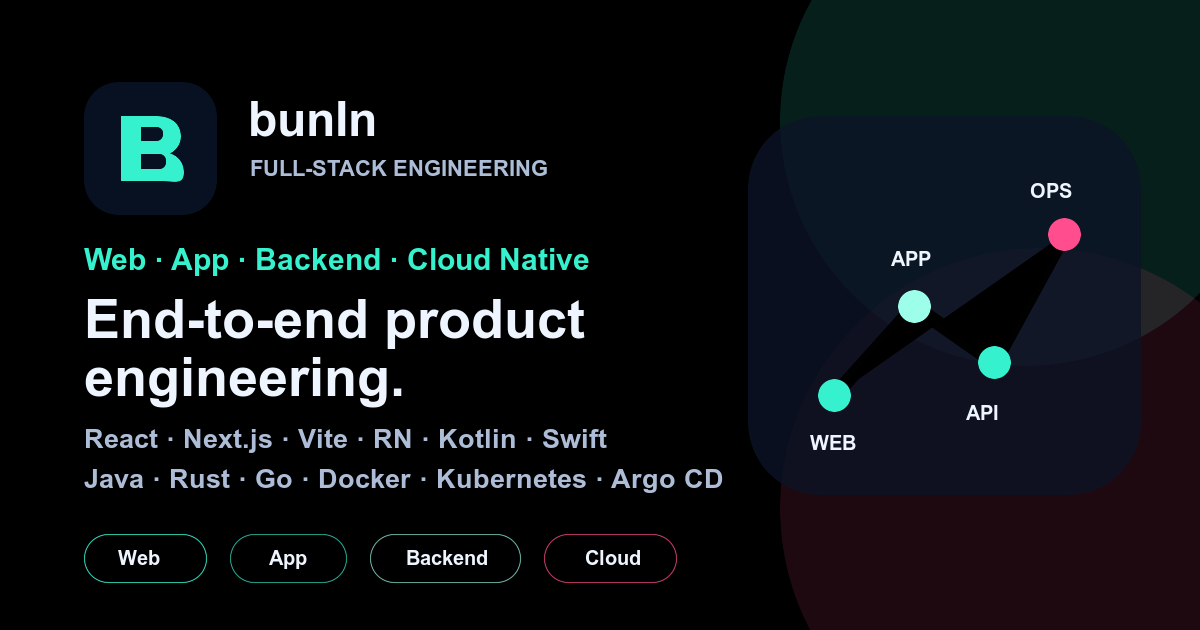
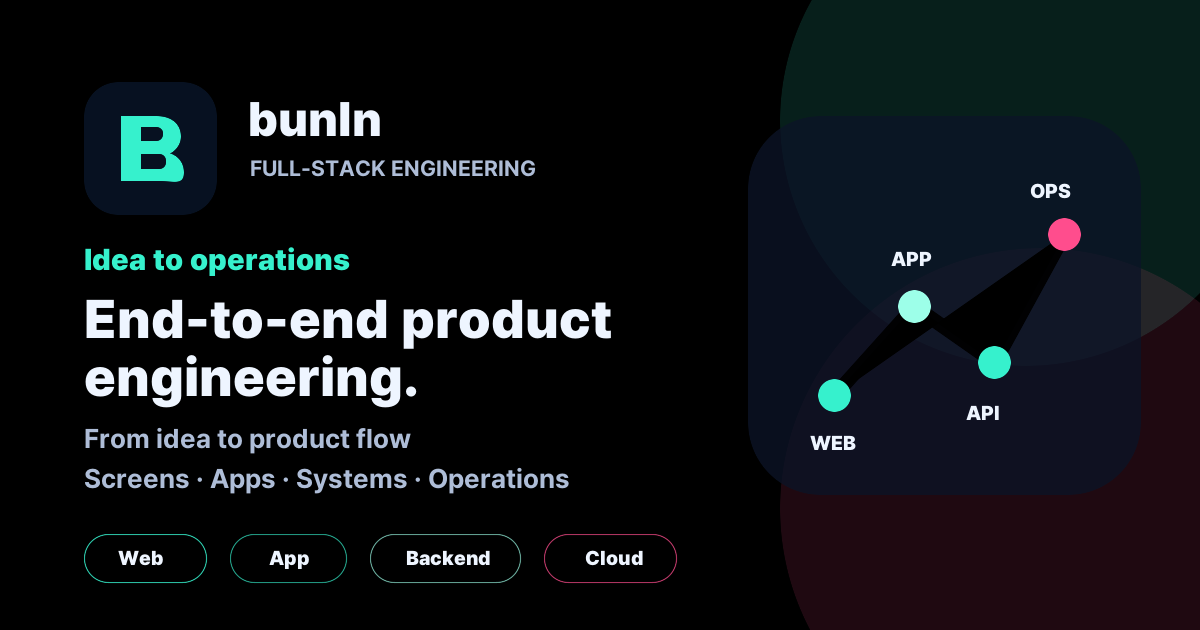
Update typography system with Pretendard font, enhance 3D model effects and animations. Refine content for clarity and user focus. Integrate global font and metadata improvements.

diff --git a/pages/+Page.tsx b/pages/+Page.tsx
@@ -1,3 +1,4 @@
+import { useCallback, useRef, useState, type CSSProperties, type KeyboardEvent, type PointerEvent } from 'react';
 import { cx } from '../styled-system/css';
 import { pageStyles as s } from '../src/styles';
 
@@ -10,20 +11,83 @@ const principles = [
 
 const modelNodes = ['App Shell', 'Feature A', 'Feature B', 'OTA Gate'] as const;
 
+type ModelRotation = {
+  x: number;
+  y: number;
+};
+
+const defaultModelRotation = { x: -18, y: 34 } satisfies ModelRotation;
+
+const clamp = (value: number, min: number, max: number) => Math.min(max, Math.max(min, value));
+
 const seoServices = [
-  ['웹앱·프론트엔드', 'React, Next.js, Vite로 고객용 웹앱, 랜딩, 대시보드, 관리자 페이지를 만듭니다.'],
-  ['앱·네이티브', 'React Native, Kotlin, Swift로 모바일 앱과 네이티브 연동이 필요한 제품을 설계합니다.'],
-  ['백엔드·시스템', 'Java, Go, Rust 기반 API, 데이터 처리, 인증, 권한, 파일·문서 처리 흐름을 연결합니다.'],
-  ['클라우드 네이티브 운영', 'Docker, Kubernetes, Argo CD로 배포 자동화, 운영 안정성, 확장 가능한 인프라를 잡습니다.'],
+  ['고객이 만나는 화면', '랜딩, 웹앱, 대시보드, 관리자 페이지를 빠르게 이해되고 오래 쓰이는 흐름으로 만듭니다.'],
+  ['손안에서 돌아가는 앱', '모바일 앱과 네이티브 기능 연동까지 제품의 속도와 사용감을 해치지 않게 설계합니다.'],
+  ['일이 줄어드는 시스템', '인증, 권한, 데이터 처리, 파일·문서 흐름처럼 반복 업무를 줄이는 백엔드를 연결합니다.'],
+  ['안심하고 올리는 운영', '배포 자동화, 로그, 롤백, 장애 대응까지 제품 출시 이후의 운영을 처음부터 포함합니다.'],
 ] as const;
 
 const faqs = [
-  ['bunIn은 어떤 기업인가요?', 'bunIn(번인)은 React, Next.js, Vite, React Native, Kotlin, Swift, Java, Rust, Go, Docker, Kubernetes, Argo CD까지 다루는 풀스택·앱·클라우드 네이티브 개발 기업입니다.'],
-  ['bunIn은 어떤 일을 잘하나요?', '고객용 웹앱, 내부 관리자 페이지, 모바일 앱, 백엔드 API, 업무 자동화, Docker/Kubernetes 기반 인프라, Argo CD 배포 자동화까지 제품과 운영을 함께 설계합니다.'],
+  ['bunIn은 어떤 기업인가요?', 'bunIn(번인)은 아이디어를 화면, 앱, 백엔드, 배포 운영까지 이어 실제로 돌아가는 제품으로 만드는 풀스택 개발 기업입니다.'],
+  ['bunIn은 어떤 일을 잘하나요?', '고객용 화면, 내부 운영 도구, 모바일 앱, 데이터 흐름, 업무 자동화, 배포 운영까지 제품이 실제로 쓰이는 전 과정을 함께 설계합니다.'],
   ['bunIn이 중요하게 보는 가치는 무엇인가요?', '멋있어 보이는 데모보다 실제 사람이 쓰기 쉬운 화면, 안정적인 데이터 처리, 운영 로그, 자동화, 유지보수 가능한 코드를 중요하게 봅니다.'],
 ] as const;
 
 export default function Page() {
+  const [modelRotation, setModelRotation] = useState<ModelRotation>(defaultModelRotation);
+  const dragStartRef = useRef<{ x: number; y: number; rotation: ModelRotation } | null>(null);
+
+  const modelStyle = {
+    '--model-rx': `${modelRotation.x}deg`,
+    '--model-ry': `${modelRotation.y}deg`,
+  } as CSSProperties;
+
+  const handleModelPointerDown = useCallback((event: PointerEvent<HTMLDivElement>) => {
+    dragStartRef.current = {
+      x: event.clientX,
+      y: event.clientY,
+      rotation: modelRotation,
+    };
+    event.currentTarget.setPointerCapture(event.pointerId);
+  }, [modelRotation]);
+
+  const handleModelPointerMove = useCallback((event: PointerEvent<HTMLDivElement>) => {
+    const dragStart = dragStartRef.current;
+    if (!dragStart) return;
+
+    const nextX = clamp(dragStart.rotation.x - (event.clientY - dragStart.y) * 0.18, -42, 34);
+    const nextY = dragStart.rotation.y + (event.clientX - dragStart.x) * 0.22;
+
+    setModelRotation({ x: nextX, y: nextY });
+  }, []);
+
+  const handleModelPointerUp = useCallback((event: PointerEvent<HTMLDivElement>) => {
+    dragStartRef.current = null;
+    if (event.currentTarget.hasPointerCapture(event.pointerId)) {
+      event.currentTarget.releasePointerCapture(event.pointerId);
+    }
+  }, []);
+
+  const handleModelKeyDown = useCallback((event: KeyboardEvent<HTMLDivElement>) => {
+    const step = event.shiftKey ? 12 : 7;
+
+    if (event.key === 'Home') {
+      event.preventDefault();
+      setModelRotation(defaultModelRotation);
+      return;
+    }
+
+    if (!['ArrowUp', 'ArrowDown', 'ArrowLeft', 'ArrowRight'].includes(event.key)) return;
+
+    event.preventDefault();
+    setModelRotation((current) => {
+      if (event.key === 'ArrowUp') return { ...current, x: clamp(current.x - step, -42, 34) };
+      if (event.key === 'ArrowDown') return { ...current, x: clamp(current.x + step, -42, 34) };
+      if (event.key === 'ArrowLeft') return { ...current, y: current.y - step };
+      return { ...current, y: current.y + step };
+    });
+  }, []);
+
   return (
     <main id="top" className={s.main}>
       <section className={cx(s.hero, s.sectionGrid)}>
@@ -35,9 +99,9 @@ export default function Page() {
             풀스택 기업.
           </h1>
           <p className={s.heroText}>
-            bunIn(번인)은 React, Next.js, Vite, React Native부터 Kotlin, Swift, Java, Rust, Go,
-            Docker, Kubernetes, Argo CD까지 제품과 운영을 한 번에 설계하는 IT 기업입니다.
-            일반 사용자가 이해하기 쉬운 화면과 실제 업무가 줄어드는 시스템을 우선합니다.
+            bunIn(번인)은 화면, 앱, 백엔드, 배포 운영을 따로 떼어 보지 않습니다.
+            사용자는 더 쉽게 쓰고, 팀은 더 적게 반복하고, 제품은 더 안전하게 커지도록
+            처음부터 끝까지 하나의 흐름으로 설계합니다.
           </p>
           <div className={s.actionRow}>
             <a className={s.buttonPrimary} href="#project">무엇을 만드는지 보기</a>
@@ -53,23 +117,46 @@ export default function Page() {
         </div>
 
         <aside className={s.heroVisual} aria-label="React Native Micro Frontend 런타임 3D 모델">
-          <div className={s.modelStage} role="img" aria-label="앱 셸과 기능 모듈, OTA 검증 게이트가 연결된 3D 런타임 모델">
+          <div
+            className={s.modelStage}
+            role="img"
+            aria-label="드래그하거나 방향키로 회전할 수 있는 앱 런타임 3D 모델"
+            tabIndex={0}
+            style={modelStyle}
+            onPointerDown={handleModelPointerDown}
+            onPointerMove={handleModelPointerMove}
+            onPointerUp={handleModelPointerUp}
+            onPointerCancel={handleModelPointerUp}
+            onKeyDown={handleModelKeyDown}
+            onDoubleClick={() => setModelRotation(defaultModelRotation)}
+          >
             <div className={s.modelGrid} aria-hidden="true" />
-            <div className={s.orbitOne} aria-hidden="true" />
-            <div className={s.orbitTwo} aria-hidden="true" />
-            <div className={s.coreCube} aria-hidden="true">
-              <span className={cx(s.cubeFace, s.faceFront)}>bunIn</span>
-              <span className={cx(s.cubeFace, s.faceBack)}>SAFE</span>
-              <span className={cx(s.cubeFace, s.faceRight)}>OTA</span>
-              <span className={cx(s.cubeFace, s.faceLeft)}>MFE</span>
-              <span className={cx(s.cubeFace, s.faceTop)}>RUN</span>
-              <span className={cx(s.cubeFace, s.faceBottom)}>OPS</span>
+            <div className={s.modelGlow} aria-hidden="true" />
+            <div className={s.modelRig} aria-hidden="true">
+              <div className={s.modelPlate} />
+              <div className={s.modelBeams}>
+                <span />
+                <span />
+                <span />
+              </div>
+              <div className={s.orbitOne} />
+              <div className={s.orbitTwo} />
+              <div className={s.orbitThree} />
+              <div className={s.coreCube}>
+                <span className={cx(s.cubeFace, s.faceFront)}>bunIn</span>
+                <span className={cx(s.cubeFace, s.faceBack)}>SAFE</span>
+                <span className={cx(s.cubeFace, s.faceRight)}>OTA</span>
+                <span className={cx(s.cubeFace, s.faceLeft)}>MFE</span>
+                <span className={cx(s.cubeFace, s.faceTop)}>RUN</span>
+                <span className={cx(s.cubeFace, s.faceBottom)}>OPS</span>
+              </div>
             </div>
             <div className={s.modelNodes} aria-hidden="true">
               {modelNodes.map((node) => (
                 <span key={node}>{node}</span>
               ))}
             </div>
+            <span className={s.modelHint} aria-hidden="true">drag · arrows · double click reset</span>
           </div>
           <div className={s.terminal} aria-label="bunIn 기술 원칙">
             <div className={s.terminalBar}><span /><span /><span /></div>
@@ -84,16 +171,16 @@ status: obsessed_with_it`}</code></pre>
       </section>
 
       <section className={s.metrics} aria-label="핵심 역량">
-        <article><strong>Web</strong><span>React · Next.js · Vite</span></article>
-        <article><strong>App</strong><span>React Native · Kotlin · Swift</span></article>
-        <article><strong>Backend</strong><span>Java · Go · Rust · API</span></article>
-        <article><strong>Cloud</strong><span>Docker · Kubernetes · Argo CD</span></article>
+        <article><strong>Launch</strong><span>아이디어를 바로 만져지는 제품으로</span></article>
+        <article><strong>Flow</strong><span>화면, 앱, 데이터가 끊기지 않게</span></article>
+        <article><strong>Ops</strong><span>배포와 장애 대응이 무섭지 않게</span></article>
+        <article><strong>Scale</strong><span>작게 시작해도 커질 수 있게</span></article>
       </section>
 
       <section id="project" className={s.section}>
         <div className={s.sectionHeading}>
           <p className={s.eyebrow}>What We Build</p>
-          <h2 className={s.h2}>bunIn은 풀스택 제품과 앱, 클라우드 운영 시스템을 함께 만듭니다.</h2>
+          <h2 className={s.h2}>bunIn은 제품이 처음 쓰이는 순간부터 운영되는 날까지 함께 만듭니다.</h2>
           <p>
             프론트엔드와 앱에서 끝나지 않고 백엔드, 인프라, 배포 자동화,
             운영 안정성까지 비즈니스에 필요한 소프트웨어를 풀스택으로 연결합니다.
@@ -104,17 +191,18 @@ status: obsessed_with_it`}</code></pre>
           <article className={s.projectCard}>
             <div className={s.cardTop}>
               <span className={s.tag}>Full Stack</span>
-              <span className={s.status}>Web · App · Cloud</span>
+              <span className={s.status}>Idea → Ops</span>
             </div>
-            <h3 className={s.h3}>웹앱, 모바일 앱, 백엔드, 클라우드 운영</h3>
+            <h3 className={s.h3}>아이디어가 실제 업무 흐름이 되기까지</h3>
             <p>
               bunIn은 고객이 보는 웹 화면, 모바일 앱, 직원이 쓰는 관리자 페이지, 데이터를 처리하는 백엔드,
-              Docker/Kubernetes 기반 인프라, Argo CD 배포 자동화까지 하나의 제품 흐름으로 만듭니다.
-              필요한 기술이 React든 Go든 Rust든 Kotlin이든 제품에 맞는 선택으로 끝까지 구현합니다.
+              배포와 운영 자동화까지 하나의 제품 흐름으로 만듭니다.
+              기술 이름보다 중요한 것은 사용자가 막히지 않고, 팀의 반복 업무가 줄고,
+              출시 이후에도 안전하게 고칠 수 있는 구조입니다.
             </p>
             <div className={s.projectActions}>
               <a href="#seo-profile">서비스 영역</a>
-              <a href="https://github.com/burned-in/react-native-micro-frontend" target="_blank" rel="noreferrer">기술 자산</a>
+              <a href="https://github.com/burned-in/react-native-micro-frontend" target="_blank" rel="noreferrer">오픈소스 런타임 보기</a>
             </div>
           </article>
         </div>
@@ -138,10 +226,10 @@ status: obsessed_with_it`}</code></pre>
       <section id="seo-profile" className={s.section} aria-labelledby="seo-profile-title">
         <div className={s.sectionHeading}>
           <p className={s.eyebrow}>Company Profile</p>
-          <h2 id="seo-profile-title" className={s.h2}>bunIn은 웹앱, 앱, 백엔드, 클라우드 운영까지 만드는 풀스택 기업입니다.</h2>
+          <h2 id="seo-profile-title" className={s.h2}>bunIn은 만들고 끝내지 않고, 운영되는 제품을 설계하는 풀스택 기업입니다.</h2>
           <p>
             검색엔진과 고객이 같은 답을 얻도록 bunIn이 만드는 것, 해결하는 문제,
-            기술 범위와 기업 식별 정보를 명확한 문장과 구조로 공개합니다.
+            일하는 방식과 기업 식별 정보를 명확한 문장과 구조로 공개합니다.
           </p>
         </div>
         <div className={s.seoGrid}>
@@ -167,7 +255,7 @@ status: obsessed_with_it`}</code></pre>
           </div>
           <div>
             <dt>핵심 키워드</dt>
-            <dd>React, Next.js, Vite, React Native, Kotlin, Swift, Java, Rust, Go, Docker, Kubernetes, Argo CD</dd>
+            <dd>제품 설계, 앱 경험, 백엔드 흐름, 업무 자동화, 배포 운영</dd>
           </div>
         </dl>
       </section>

diff --git a/src/styles.ts b/src/styles.ts
@@ -145,9 +145,9 @@ export const pageStyles = {
   }),
   hero: css({ minHeight: '78vh', padding: 'clamp(4rem, 8vw, 6.5rem) 0 3rem', '@media (max-width: 980px)': { minHeight: 'auto' }, '@media (max-width: 720px)': { paddingTop: '3rem' } }),
   eyebrow: css({ margin: '0 0 1rem', color: 'var(--brand)', fontSize: '.78rem', fontWeight: '850', lineHeight: '1.6', letterSpacing: '.16em', textTransform: 'uppercase' }),
-  h1: css({ marginBottom: '1.35rem', maxWidth: '10ch', fontSize: 'clamp(3rem, 8vw, 7rem)', lineHeight: '1.08', letterSpacing: '-.075em', '& span': { display: 'block', color: 'transparent', background: 'linear-gradient(90deg, var(--brand), var(--brand-strong), var(--hot))', backgroundClip: 'text' }, '@media (max-width: 980px)': { maxWidth: '12ch' }, '@media (max-width: 720px)': { fontSize: 'clamp(2.7rem, 15vw, 4.6rem)', lineHeight: '1.1', letterSpacing: '-.065em' } }),
-  h2: css({ fontSize: 'clamp(2rem, 5vw, 4.2rem)', lineHeight: '1.18', letterSpacing: '-.055em', '@media (max-width: 720px)': { lineHeight: '1.2', letterSpacing: '-.045em' } }),
-  h3: css({ fontSize: 'clamp(1.25rem, 2vw, 1.5rem)', lineHeight: '1.35', letterSpacing: '-.025em' }),
+  h1: css({ marginBottom: '1.35rem', maxWidth: '10ch', fontSize: 'clamp(3rem, 8vw, 7rem)', fontWeight: '600', fontVariationSettings: '"wght" 600', lineHeight: '1.04', letterSpacing: '-.075em', textShadow: '0 10px 36px rgba(0,0,0,.28)', '& span': { display: 'block', color: 'transparent', background: 'linear-gradient(90deg, var(--brand), var(--brand-strong), var(--hot))', backgroundClip: 'text' }, '@media (max-width: 980px)': { maxWidth: '12ch' }, '@media (max-width: 720px)': { fontSize: 'clamp(2.7rem, 15vw, 4.6rem)', lineHeight: '1.06', letterSpacing: '-.065em' } }),
+  h2: css({ fontSize: 'clamp(2rem, 5vw, 4.2rem)', fontWeight: '600', fontVariationSettings: '"wght" 600', lineHeight: '1.12', letterSpacing: '-.055em', textShadow: '0 8px 28px rgba(0,0,0,.2)', '@media (max-width: 720px)': { lineHeight: '1.15', letterSpacing: '-.045em' } }),
+  h3: css({ fontSize: 'clamp(1.25rem, 2vw, 1.5rem)', fontWeight: '600', lineHeight: '1.28', letterSpacing: '-.025em' }),
   bodyText: css({ ...mutedText }),
   heroText: css({ ...mutedText, maxWidth: '44rem', fontSize: 'clamp(1rem, 1.8vw, 1.12rem)' }),
   actionRow: css({ display: 'flex', flexWrap: 'wrap', gap: '.9rem', marginTop: '2rem', '@media (max-width: 430px)': { gap: '.7rem' } }),
@@ -166,14 +166,25 @@ export const pageStyles = {
     boxShadow: 'var(--shadow), inset 0 1px rgba(255,255,255,.08)',
     perspective: '900px',
     isolation: 'isolate',
+    cursor: 'grab',
+    touchAction: 'none',
+    userSelect: 'none',
+    outline: 'none',
+    _active: { cursor: 'grabbing' },
+    _focusVisible: { borderColor: 'color-mix(in srgb, var(--brand) 62%, var(--line))', boxShadow: 'var(--shadow), inset 0 1px rgba(255,255,255,.08), 0 0 0 4px color-mix(in srgb, var(--brand) 16%, transparent)' },
     '@media (max-width: 720px)': { minHeight: '24rem' },
     '@media (max-width: 430px)': { minHeight: '21rem' },
   }),
-  modelGrid: css({ position: 'absolute', inset: '14% -10% -22%', transform: 'rotateX(68deg) rotateZ(-16deg)', transformOrigin: 'center', backgroundImage: 'linear-gradient(color-mix(in srgb, var(--brand) 25%, transparent) 1px, transparent 1px), linear-gradient(90deg, color-mix(in srgb, var(--brand) 25%, transparent) 1px, transparent 1px)', backgroundSize: '2.6rem 2.6rem', opacity: '.38', maskImage: 'linear-gradient(to top, transparent, #000 22%, #000 72%, transparent)' }),
-  orbitOne: css({ position: 'absolute', width: 'min(72%, 21rem)', aspectRatio: '1', border: '1px solid color-mix(in srgb, var(--brand) 48%, transparent)', borderRadius: '50%', transformStyle: 'preserve-3d', animation: 'orbit-spin 12s linear infinite', transform: 'rotateX(68deg) rotateZ(18deg)' }),
-  orbitTwo: css({ position: 'absolute', width: 'min(58%, 17rem)', aspectRatio: '1', border: '1px solid color-mix(in srgb, var(--hot) 44%, transparent)', borderRadius: '50%', transformStyle: 'preserve-3d', animation: 'orbit-spin 15s linear infinite reverse', transform: 'rotateX(64deg) rotateZ(-30deg)' }),
+  modelGrid: css({ position: 'absolute', inset: '11% -10% -20%', transform: 'rotateX(68deg) rotateZ(-16deg)', transformOrigin: 'center', backgroundImage: 'linear-gradient(color-mix(in srgb, var(--brand) 25%, transparent) 1px, transparent 1px), linear-gradient(90deg, color-mix(in srgb, var(--brand) 25%, transparent) 1px, transparent 1px)', backgroundSize: '2.6rem 2.6rem', opacity: '.34', maskImage: 'linear-gradient(to top, transparent, #000 22%, #000 72%, transparent)' }),
+  modelGlow: css({ position: 'absolute', width: 'min(76%, 25rem)', aspectRatio: '1', borderRadius: '999px', background: 'radial-gradient(circle, color-mix(in srgb, var(--brand) 22%, transparent), color-mix(in srgb, var(--hot) 12%, transparent) 38%, transparent 68%)', filter: 'blur(18px)', opacity: '.82' }),
+  modelRig: css({ position: 'relative', zIndex: '2', display: 'grid', placeItems: 'center', width: 'min(70%, 23rem)', aspectRatio: '1', transformStyle: 'preserve-3d', transform: 'rotateX(var(--model-rx, -18deg)) rotateY(var(--model-ry, 34deg))', transition: 'transform .08s linear', willChange: 'transform' }),
+  modelPlate: css({ position: 'absolute', width: '82%', aspectRatio: '1', border: '1px solid color-mix(in srgb, var(--brand) 40%, transparent)', borderRadius: '999px', background: 'radial-gradient(circle, color-mix(in srgb, var(--brand) 12%, transparent), transparent 55%), conic-gradient(from 120deg, transparent, color-mix(in srgb, var(--brand) 35%, transparent), transparent, color-mix(in srgb, var(--hot) 25%, transparent), transparent)', boxShadow: '0 0 42px color-mix(in srgb, var(--brand) 18%, transparent)', transform: 'rotateX(72deg) translateZ(-4.2rem)' }),
+  modelBeams: css({ position: 'absolute', inset: '13%', transformStyle: 'preserve-3d', '& span': { position: 'absolute', left: '50%', top: '50%', width: '74%', height: '1px', transformOrigin: '0 0', background: 'linear-gradient(90deg, transparent, color-mix(in srgb, var(--brand) 78%, transparent), transparent)', boxShadow: '0 0 16px color-mix(in srgb, var(--brand) 42%, transparent)' }, '& span:nth-child(1)': { transform: 'rotateZ(22deg) translateX(-50%) translateZ(2.7rem)' }, '& span:nth-child(2)': { transform: 'rotateZ(142deg) translateX(-50%) translateZ(1.6rem)' }, '& span:nth-child(3)': { transform: 'rotateZ(262deg) translateX(-50%) translateZ(2.1rem)' } }),
+  orbitOne: css({ position: 'absolute', top: '50%', left: '50%', width: '94%', aspectRatio: '1', border: '1px solid color-mix(in srgb, var(--brand) 52%, transparent)', borderRadius: '50%', transformStyle: 'preserve-3d', animation: 'orbit-spin 12s linear infinite', transform: 'translate(-50%, -50%) rotateX(68deg) rotateZ(18deg)', boxShadow: '0 0 26px color-mix(in srgb, var(--brand) 12%, transparent)' }),
+  orbitTwo: css({ position: 'absolute', top: '50%', left: '50%', width: '73%', aspectRatio: '1', border: '1px solid color-mix(in srgb, var(--hot) 46%, transparent)', borderRadius: '50%', transformStyle: 'preserve-3d', animation: 'orbit-spin 15s linear infinite reverse', transform: 'translate(-50%, -50%) rotateX(64deg) rotateZ(-30deg)', boxShadow: '0 0 24px color-mix(in srgb, var(--hot) 13%, transparent)' }),
+  orbitThree: css({ position: 'absolute', top: '50%', left: '50%', width: '55%', aspectRatio: '1', border: '1px dashed color-mix(in srgb, var(--brand-strong) 50%, transparent)', borderRadius: '50%', transformStyle: 'preserve-3d', animation: 'orbit-spin 18s linear infinite', transform: 'translate(-50%, -50%) rotateX(74deg) rotateZ(86deg)', opacity: '.78' }),
   coreCube: css({ position: 'relative', width: 'clamp(6.8rem, 16vw, 9.4rem)', height: 'clamp(6.8rem, 16vw, 9.4rem)', transformStyle: 'preserve-3d', transform: 'rotateX(-18deg) rotateY(34deg)', animation: 'cube-float 7s ease-in-out infinite', zIndex: '2' }),
-  cubeFace: css({ position: 'absolute', inset: '0', display: 'grid', placeItems: 'center', border: '1px solid color-mix(in srgb, var(--brand) 56%, transparent)', background: 'linear-gradient(135deg, color-mix(in srgb, var(--brand) 24%, transparent), color-mix(in srgb, var(--hot) 14%, transparent)), var(--panel-strong)', color: 'var(--text)', fontSize: 'clamp(.78rem, 2vw, 1rem)', fontWeight: '950', letterSpacing: '.12em', boxShadow: 'inset 0 1px rgba(255,255,255,.16), 0 0 30px color-mix(in srgb, var(--brand) 18%, transparent)', backfaceVisibility: 'hidden' }),
+  cubeFace: css({ position: 'absolute', inset: '0', display: 'grid', placeItems: 'center', border: '1px solid color-mix(in srgb, var(--brand) 62%, transparent)', background: 'linear-gradient(135deg, color-mix(in srgb, var(--brand) 28%, transparent), color-mix(in srgb, var(--hot) 16%, transparent)), color-mix(in srgb, var(--panel-strong) 92%, transparent)', color: 'var(--text)', fontSize: 'clamp(.78rem, 2vw, 1rem)', fontWeight: '950', letterSpacing: '.12em', boxShadow: 'inset 0 1px rgba(255,255,255,.2), inset 0 -22px 44px color-mix(in srgb, var(--brand) 8%, transparent), 0 0 34px color-mix(in srgb, var(--brand) 22%, transparent)', backdropFilter: 'blur(12px)', backfaceVisibility: 'hidden' }),
   faceFront: css({ transform: 'translateZ(calc(clamp(6.8rem, 16vw, 9.4rem) / 2))' }),
   faceBack: css({ transform: 'rotateY(180deg) translateZ(calc(clamp(6.8rem, 16vw, 9.4rem) / 2))' }),
   faceRight: css({ transform: 'rotateY(90deg) translateZ(calc(clamp(6.8rem, 16vw, 9.4rem) / 2))' }),
@@ -181,7 +192,8 @@ export const pageStyles = {
   faceTop: css({ transform: 'rotateX(90deg) translateZ(calc(clamp(6.8rem, 16vw, 9.4rem) / 2))' }),
   faceBottom: css({ transform: 'rotateX(-90deg) translateZ(calc(clamp(6.8rem, 16vw, 9.4rem) / 2))' }),
   modelNodes: css({ position: 'absolute', inset: '1.2rem', zIndex: '3', pointerEvents: 'none', '& span': { position: 'absolute', display: 'inline-flex', alignItems: 'center', minHeight: '2.25rem', padding: '.55rem .75rem', border: '1px solid var(--line)', borderRadius: '999px', color: 'var(--text)', background: 'color-mix(in srgb, var(--panel-strong) 84%, transparent)', boxShadow: 'var(--soft-shadow)', fontSize: 'clamp(.72rem, 1.8vw, .86rem)', fontWeight: '850', lineHeight: '1.25' }, '& span:nth-child(1)': { top: '7%', left: '7%' }, '& span:nth-child(2)': { top: '18%', right: '5%' }, '& span:nth-child(3)': { bottom: '17%', left: '4%' }, '& span:nth-child(4)': { right: '7%', bottom: '8%', color: 'var(--brand)' }, '@media (max-width: 430px)': { inset: '.75rem', '& span': { padding: '.48rem .62rem' } } }),
-  terminal: css({ border: '1px solid var(--line)', borderRadius: '1.6rem', background: 'linear-gradient(180deg, color-mix(in srgb, var(--panel-strong) 95%, #000 5%), color-mix(in srgb, var(--panel) 88%, #000 12%))', boxShadow: 'var(--shadow), inset 0 1px rgba(255,255,255,.08)', overflow: 'hidden', position: 'relative', zIndex: '4', width: 'min(92%, 28rem)', margin: '-5.5rem auto 0', transform: 'rotate(1deg)', '& pre': { margin: '0', padding: '1.2rem', overflowX: 'auto' }, '& code': { color: 'color-mix(in srgb, var(--brand-strong) 78%, var(--text))', fontFamily: '"SFMono-Regular", Consolas, ui-monospace, monospace', lineHeight: '1.7' }, '@media (max-width: 720px)': { width: '100%', marginTop: '-3rem', transform: 'none', '& pre': { padding: '1rem', fontSize: '.78rem' } } }),
+  modelHint: css({ position: 'absolute', left: '50%', bottom: '1rem', zIndex: '4', transform: 'translateX(-50%)', padding: '.45rem .7rem', border: '1px solid color-mix(in srgb, var(--brand) 36%, var(--line))', borderRadius: '999px', color: 'var(--muted)', background: 'color-mix(in srgb, var(--panel-strong) 72%, transparent)', fontSize: '.72rem', fontWeight: '750', letterSpacing: '.08em', textTransform: 'uppercase', pointerEvents: 'none', whiteSpace: 'nowrap', '@media (max-width: 430px)': { display: 'none' } }),
+  terminal: css({ border: '1px solid var(--line)', borderRadius: '1.6rem', background: 'linear-gradient(180deg, color-mix(in srgb, var(--panel-strong) 95%, #000 5%), color-mix(in srgb, var(--panel) 88%, #000 12%))', boxShadow: 'var(--shadow), inset 0 1px rgba(255,255,255,.08)', overflow: 'hidden', position: 'relative', zIndex: '4', width: 'min(92%, 28rem)', margin: '-5.5rem auto 0', transform: 'rotate(1deg)', '& pre': { margin: '0', padding: '1.2rem', overflowX: 'auto' }, '& code': { color: 'color-mix(in srgb, var(--brand-strong) 78%, var(--text))', fontFamily: 'var(--font-sans)', fontWeight: '650', lineHeight: '1.7' }, '@media (max-width: 720px)': { width: '100%', marginTop: '-3rem', transform: 'none', '& pre': { padding: '1rem', fontSize: '.78rem' } } }),
   terminalBar: css({ display: 'flex', gap: '.45rem', padding: '1rem', borderBottom: '1px solid var(--line)', '& span': { width: '.75rem', height: '.75rem', borderRadius: '999px', background: 'var(--hot)' }, '& span:nth-child(2)': { background: 'var(--warn)' }, '& span:nth-child(3)': { background: 'var(--brand)' } }),
   metrics: css({ display: 'grid', gridTemplateColumns: 'repeat(4, 1fr)', gap: '1rem', margin: '0 0 clamp(4rem, 7vw, 6rem)', '& article': { ...panel, padding: '1.1rem', borderRadius: '1.2rem', minWidth: '0' }, '& strong, & span': { display: 'block' }, '& strong': { color: 'var(--brand)', fontSize: '1.05rem', lineHeight: '1.35' }, '& span': { color: 'var(--muted)', marginTop: '.35rem', fontSize: '.9rem', lineHeight: '1.55' }, '@media (max-width: 980px)': { gridTemplateColumns: 'repeat(2, 1fr)' }, '@media (max-width: 720px)': { gridTemplateColumns: '1fr' } }),
   section: css({ padding: '3rem 0 clamp(4rem, 7vw, 6rem)', scrollMarginTop: '6rem', '@media (max-width: 430px)': { scrollMarginTop: '9rem' } }),

diff --git a/pages/+Layout.tsx b/pages/+Layout.tsx
@@ -11,7 +11,7 @@ const siteUrl = 'https://bunin.app/';
 const siteName = 'bunIn · 번인';
 const pageTitle = 'bunIn 번인 | 풀스택·앱·클라우드 네이티브 개발 기업';
 const pageDescription =
-  'bunIn(번인)은 React, Next.js, Vite, React Native, Kotlin, Swift, Java, Rust, Go, Docker, Kubernetes, Argo CD까지 다루는 풀스택·앱·클라우드 네이티브 개발 기업입니다.';
+  'bunIn(번인)은 아이디어를 화면, 앱, 백엔드, 배포 운영까지 이어 실제로 돌아가는 제품으로 만드는 풀스택 개발 기업입니다.';
 const ogImageUrl = 'https://bunin.app/og-image.png';
 const keywordContent = [
   'bunIn',
@@ -111,7 +111,7 @@ const faqJsonLd = {
       name: 'bunIn은 어떤 기업인가요?',
       acceptedAnswer: {
         '@type': 'Answer',
-        text: 'bunIn(번인)은 React, Next.js, Vite, React Native, Kotlin, Swift, Java, Rust, Go, Docker, Kubernetes, Argo CD까지 다루는 풀스택·앱·클라우드 네이티브 개발 기업입니다.',
+        text: 'bunIn(번인)은 아이디어를 화면, 앱, 백엔드, 배포 운영까지 이어 실제로 돌아가는 제품으로 만드는 풀스택 개발 기업입니다.',
       },
     },
     {
@@ -119,7 +119,7 @@ const faqJsonLd = {
       name: 'bunIn은 어떤 일을 잘하나요?',
       acceptedAnswer: {
         '@type': 'Answer',
-        text: '고객용 웹앱, 내부 관리자 페이지, 모바일 앱, 백엔드 API, 업무 자동화, Docker/Kubernetes 기반 인프라, Argo CD 배포 자동화까지 제품과 운영을 함께 설계합니다.',
+        text: '고객용 화면, 내부 운영 도구, 모바일 앱, 데이터 흐름, 업무 자동화, 배포 운영까지 제품이 실제로 쓰이는 전 과정을 함께 설계합니다.',
       },
     },
     {
@@ -142,7 +142,7 @@ const softwareJsonLd = {
   programmingLanguage: ['TypeScript', 'React Native'],
   applicationCategory: 'DeveloperApplication',
   description:
-    'bunIn의 엔지니어링 깊이를 보여주는 오픈소스 기술 자산으로, 모바일 앱의 기능 모듈 독립 배포와 안전한 런타임 운영을 다룹니다.',
+    'bunIn의 오픈소스 React Native Micro Frontend 프로젝트입니다. 모바일 앱 기능 모듈의 독립 배포, OTA 검증 게이트, 안전한 런타임 운영을 다룹니다.',
   author: { '@id': `${siteUrl}#organization` },
 };
 
@@ -189,6 +189,8 @@ export default function Layout({ children }: LayoutProps) {
         <meta name="keywords" content={keywordContent} />
         <meta name="robots" content="index, follow, max-image-preview:large, max-snippet:-1, max-video-preview:-1" />
         <meta name="googlebot" content="index, follow, max-image-preview:large, max-snippet:-1, max-video-preview:-1" />
+        <link rel="preconnect" href="https://cdn.jsdelivr.net" />
+        <link rel="stylesheet" href="https://cdn.jsdelivr.net/gh/orioncactus/pretendard/dist/web/variable/pretendardvariable.css" />
         <link rel="canonical" href={siteUrl} />
         <link rel="alternate" hrefLang="ko-KR" href={siteUrl} />
         <link rel="alternate" hrefLang="x-default" href={siteUrl} />
@@ -242,7 +244,7 @@ export default function Layout({ children }: LayoutProps) {
       <footer id="company" className={s.footer}>
         <div>
           <strong>bunIn · 번인 · BURNED-IN</strong>
-          <p>풀스택 · 앱 · 클라우드 네이티브 · Kubernetes · Docker · Argo CD · 사업자등록번호 315-70-00623</p>
+          <p>제품 설계 · 앱 경험 · 백엔드 흐름 · 배포 운영 · 사업자등록번호 315-70-00623</p>
         </div>
         <div>
           <p>Official domain: <code>bunin.app</code></p>

diff --git a/panda.config.ts b/panda.config.ts
@@ -26,7 +26,8 @@ export default defineConfig({
       '--shadow': '0 30px 100px rgba(0, 0, 0, 0.45)',
       '--soft-shadow': '0 18px 60px rgba(0, 0, 0, 0.24)',
       '--content-width': '1180px',
-      fontFamily: 'Inter, ui-sans-serif, system-ui, -apple-system, BlinkMacSystemFont, "Segoe UI", "Noto Sans KR", "Apple SD Gothic Neo", sans-serif',
+      '--font-sans': '"Pretendard Variable", Pretendard, ui-sans-serif, system-ui, -apple-system, BlinkMacSystemFont, "Noto Sans KR", "Apple SD Gothic Neo", "Segoe UI", sans-serif',
+      fontFamily: 'var(--font-sans)',
     },
     ':root[data-theme="light"]': {
       colorScheme: 'light',
@@ -55,6 +56,7 @@ export default defineConfig({
       overflowX: 'hidden',
       background: 'radial-gradient(circle at top left, color-mix(in srgb, var(--brand) 22%, transparent), transparent 34rem), radial-gradient(circle at 78% 20%, color-mix(in srgb, var(--hot) 18%, transparent), transparent 30rem), linear-gradient(180deg, var(--bg) 0%, var(--bg-2) 48%, var(--bg) 100%)',
       color: 'var(--text)',
+      fontFamily: 'var(--font-sans)',
       wordBreak: 'keep-all',
       textWrap: 'pretty',
       WebkitFontSmoothing: 'antialiased',

diff --git a/pages/+config.ts b/pages/+config.ts
@@ -8,5 +8,5 @@ export default {
   viewport: null,
   title: 'bunIn 번인 | 풀스택·앱·클라우드 네이티브 개발 기업',
   description:
-    'bunIn(번인)은 React, Next.js, Vite, React Native, Kotlin, Swift, Java, Rust, Go, Docker, Kubernetes, Argo CD까지 다루는 풀스택·앱·클라우드 네이티브 개발 기업입니다.',
+    'bunIn(번인)은 아이디어를 화면, 앱, 백엔드, 배포 운영까지 이어 실제로 돌아가는 제품으로 만드는 풀스택 개발 기업입니다.',
 } satisfies Config;